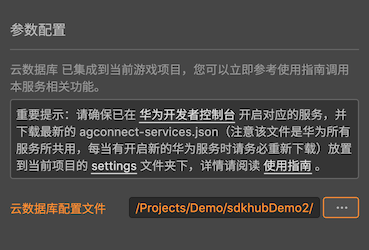
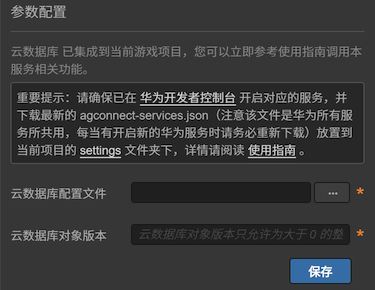
update agc cloud db docs

diff --git a/en/cocos-service/agc-clouddb.md b/en/cocos-service/agc-clouddb.md
@@ -24,7 +24,12 @@ When using Cloud DB service, if the free resource quota cannot meet the develope
 
 ### Version Update Description
 
-- Latest Version: 0.5.3_1.2.3.301
+- Latest Version: 0.5.4_1.2.3.301
+
+    - Fix the crash caused by the generator not adapting to the index of the new version of FORMAT-VERSION.
+    - Fix the crash caused by Query type conversion problem.
+
+- v0.5.3_1.2.3.301
 
     - Updated SDK to v1.2.3.301.
     - Fix the bug that the querier can only query String type.
@@ -49,7 +54,7 @@ When using Cloud DB service, if the free resource quota cannot meet the develope
 
   ![](agc-clouddb/cdb-panel.png)
 
-- Please refer to [Managing Object Types](https://developer.huawei.com/consumer/en/doc/development/AppGallery-connect-Guides/agc-clouddb-agcconsole-objecttypes) document, export object types file in **JSON** format, import into the **Cloud DB Config File** parameter at the bottom of the Cloud DB service panel.
+- Please refer to [Managing Object Types](https://developer.huawei.com/consumer/en/doc/development/AppGallery-connect-Guides/agc-clouddb-agcconsole-objecttypes) document, export object types file in **JSON** format, import into the **Cloud DB Config File** parameter at the bottom of the Cloud DB service panel, and get the version number in the console, and fill it in the **Cloud DB Object Version** option.
 
   ![](agc-clouddb/cdb-jsonconfig.png)
 
@@ -97,6 +102,8 @@ Developer can get a quick taste of the Cloud DB service with the sample project.
 
 - Click on the **Sample** button in the Cloud DB service panel, clone or download, and open the project in Cocos Creator.
 
+- The `attach/agcclouddb.json` file in the project needs to be imported into the AGC console, otherwise the Cloud DB database module in the sample will not execute normally.
+
 - Enabling the Cloud DB service and configuring the HUAWEI configuration file as described above. Configure an **Object Type Name** named `test` when enabling the Cloud DB service.
 
 - After setting, you can open the **Build** panel to compile the project by clicking **Project -> Build** in the Creator editor menu bar. Cocos Creator v2.4.1 and above, you could [publish to HUAWEI AppGallery Connect](../publish/publish-huawei-agc.md). Below Creator v2.4.1 could [publish to the Android platform](../publish/publish-native.md).
@@ -106,6 +113,8 @@ Developer can get a quick taste of the Cloud DB service with the sample project.
   ![](agc-clouddb/cdb-sample.jpg)
 
 ## Developer Guide
+
+Cloud DB supports multiple data types. The current version only supports `Boolean`, `Integer`, `Long`, `Float`, `Double` and `String` types in Creator.
 
 This document refers to the AppGallery Connect documentation - [Getting Started](https://developer.huawei.com/consumer/en/doc/development/AppGallery-connect-Guides/agc-clouddb-get-started).
 

diff --git a/zh/cocos-service/agc-clouddb.md b/zh/cocos-service/agc-clouddb.md
@@ -24,7 +24,12 @@
 
 ### 版本更新说明
 
-- 当前版本：0.5.3_1.2.3.301
+- 当前版本：0.5.4_1.2.3.301
+
+    - 修复生成器未适配新版 FORMAT-VERSION 的索引导致的崩溃问题。
+    - 修复 Query 查询器类型转换问题导致的崩溃。
+
+- v0.5.3_1.2.3.301
 
     - 升级 SDK 版本到 1.2.3.301。
     - 修复查询器只能查询 String 类型的 bug。
@@ -51,7 +56,7 @@
 
   ![](agc-clouddb/cdb-panel.png)
 
-- 参考 [管理对象类型](https://developer.huawei.com/consumer/cn/doc/development/AppGallery-connect-Guides/agc-clouddb-agcconsole-objecttypes) 文档，导出 **JSON** 格式的对象类型文件，将其导入云数据库服务面板下方，**云数据库配置文件** 选项中。
+- 参考 [管理对象类型](https://developer.huawei.com/consumer/cn/doc/development/AppGallery-connect-Guides/agc-clouddb-agcconsole-objecttypes) 文档，导出 **JSON** 格式的对象类型文件，将其导入云数据库服务面板下方，**云数据库配置文件** 选项中，并在后台获取版本号，填入 **云数据库对象版本** 选项中。
 
   ![](agc-clouddb/cdb-jsonconfig.png)
 
@@ -99,6 +104,8 @@
 
 - 点击云数据库服务面板中的 **Sample 工程** 按钮，Clone 或下载 HUAWEI Sample 工程，并在 Cocos Creator 中打开。
 
+- 需要将工程中的 `attach/agcclouddb.json` 文件导入到 AGC 后台，否则测试用例中云数据数据库模块将无法正常执行。
+
 - 参照上文开通云数据库服务并配置华为参数文件。在开通服务时，请将 **云数据库配置文件** 的 **对象类型名** 设置为 `test`。
 
 - 设置完成后，可通过 Creator 编辑器菜单栏的 **项目 -> 构建发布** 打开 **构建发布** 面板来构建编译工程。Creator v2.4.1 及以上版本，可 [发布到 HUAWEI AppGallery Connect](../publish/publish-huawei-agc.md)。Creator v2.4.1 以下的版本可 [发布到 Android 平台](../publish/publish-native.md)。
@@ -108,6 +115,8 @@
   ![](agc-clouddb/cdb-sample.jpg)
 
 ## 开发指南
+
+云数据库支持多种数据类型，目前在 Creator 中，暂时只支持 `Boolean`、`Integer`、 `Long`、`Float`、`Double` 和 `String` 类型。
 
 本文档对应 [华为云数据库服务 — 使用入门](https://developer.huawei.com/consumer/cn/doc/development/AppGallery-connect-Guides/agc-clouddb-get-started)。
 
